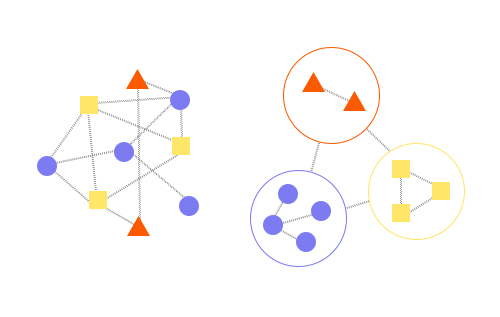
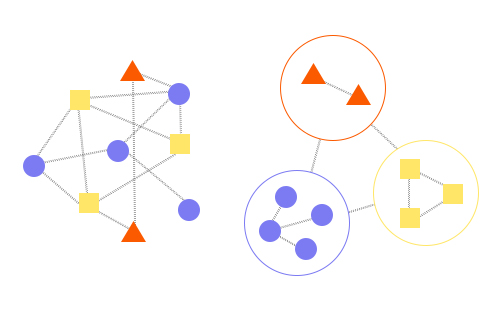
결합도응집도이미지추가,썸네일수정

diff --git a/contents/blog/cohesionMsaez.html b/contents/blog/cohesionMsaez.html
@@ -266,10 +266,20 @@
                                             </p>
                                         </blockquote>
 
+                                        <div>
+                                            <p><b>응집도</b>란 한 모듈 내부의 요소들이 얼마나 밀접하게 연관되어 있는지를 나타냅니다. <b>높은 응집도</b>를 가진 모듈은 명확하고 집중된 목적을 가집니다.</p>
+                                            <p><b>결합도</b>는 서로 다른 모듈 간의 상호의존성 정도를 의미합니다. <b>낮은 결합도</b>는 모듈 간 독립성을 높이고, 시스템의 유연성과 확장성을 크게 향상시킵니다.</p>
+                                        </div>
+
+                                        <!-- Media Gallery -->
+                                        <div class="blog-media mb-40 mb-xs-30">
+                                            <div style="width: 86%; margin: 0 auto;">
+                                                <img src="../../images/blog/coupling+cohesion.png" alt="마이크로서비스 설계의 핵심 : 응집도와 결합도 이해하기" />
+                                            </div>
+                                        </div>
+
                                         <div class="mb-50">
-                                            <p>응집도란 한 모듈 내부의 요소들이 얼마나 밀접하게 연관되어 있는지를 나타냅니다. 높은 응집도를 가진 모듈은 명확하고 집중된 목적을 가집니다.</p>
-                                            <p>결합도는 서로 다른 모듈 간의 상호의존성 정도를 의미합니다. 낮은 결합도는 모듈 간 독립성을 높이고, 시스템의 유연성과 확장성을 크게 향상시킵니다.</p>
-                                            <p>응집도가 높고 결합도가 낮게 설계된 소프트웨어는 효율적이며 유지보수 및 기능 확장에 용이합니다. 이를 보다 쉽게 이해하기 위해 실생활 예시를 들어 설명드리겠습니다.</p>
+                                            <p><b>응집도가 높고 결합도가 낮게 설계된 소프트웨어</b>는 <b>효율적이며 유지보수 및 기능 확장에 용이</b>합니다. 이를 보다 쉽게 이해하기 위해 실생활 예시를 들어 설명드리겠습니다.</p>
                                             <p>샌드위치, 햄버거, 피자 등 다양한 빵 요리를 취급하는 식당이 있다고 가정하겠습니다. 대부분의 식당에서는 빵, 채소, 고기와 같은 식재료를 한 곳에 모아두고, 다양한 조리도구를 또 한 곳에 모아두는 식으로 배치를 해두죠.</p>
                                             <p>이렇게 종류 별로 배치를 해두면 필요한 요소를 찾기에는 용이하지만, 주문이 들어올 때마다 해당 재료 및 조리도구를 가져와야 하는 비효율적인 구조가 됩니다. 이를 소프트웨어에 비유하면, 시스템 상에 어떠한 요청이 들어올 때마다 그것을 처리하는 데 필요한 데이터를 그 때 그 때 받아와야 하는 구조가 되는 것이죠.</p>
                                         </div>
